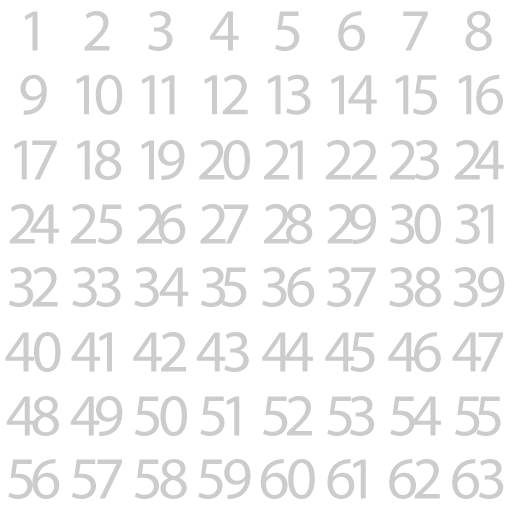
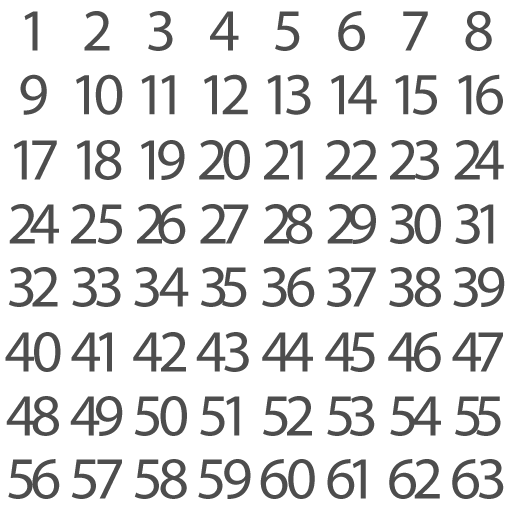
Add a kerning hack for CCLabelBMFont, Fix a crash.

diff --git a/MatchTwo/CCLabelBMFont+KerningHack.m b/MatchTwo/CCLabelBMFont+KerningHack.m
@@ -1,0 +1,21 @@
+//
+//  CCLabelBMFont+KerningHack.m
+//  MatchTwo
+//
+//  Created by  on 11-9-26.
+//  Copyright 2011年 StupidTent co. All rights reserved.
+//
+
+#import "CCLabelBMFont.h"
+
+@implementation CCLabelBMFont (KerningHack)
+
+-(int) kerningAmountForFirst:(unichar)first second:(unichar)second
+{
+    // Hack!
+    // Because the padding support for Heiro is broken and there's no easy way to fix that...
+    return -3;
+    // Hack End
+}
+
+@end

diff --git a/MatchTwo/MTPiece.m b/MatchTwo/MTPiece.m
@@ -71,7 +71,7 @@ CGRect rectForType(int type){
         glColor4f(1.0, (50 + type*20)/255.0, 0.32, 0.5);
         ccDrawPolyFill(points, 4, YES);
     }else{
-        glColor4f(0.9, 0.9, 0.9, 1.0);
+        glColor4f(0.6, 0.6, 0.6, 1.0);
         glLineWidth(1.0);
         ccDrawPoly(points, 4, YES);        
     }    

diff --git a/MatchTwo/MTBoard.m b/MatchTwo/MTBoard.m
@@ -275,6 +275,11 @@
         }
     }
     
+    if ([array count] == 0) {
+        // Stop shuffle if no tile remains.
+        return;
+    }
+    
     // Shuffle the array
     int numberOfShuffle = 2;
     int totalCount = [array count];
